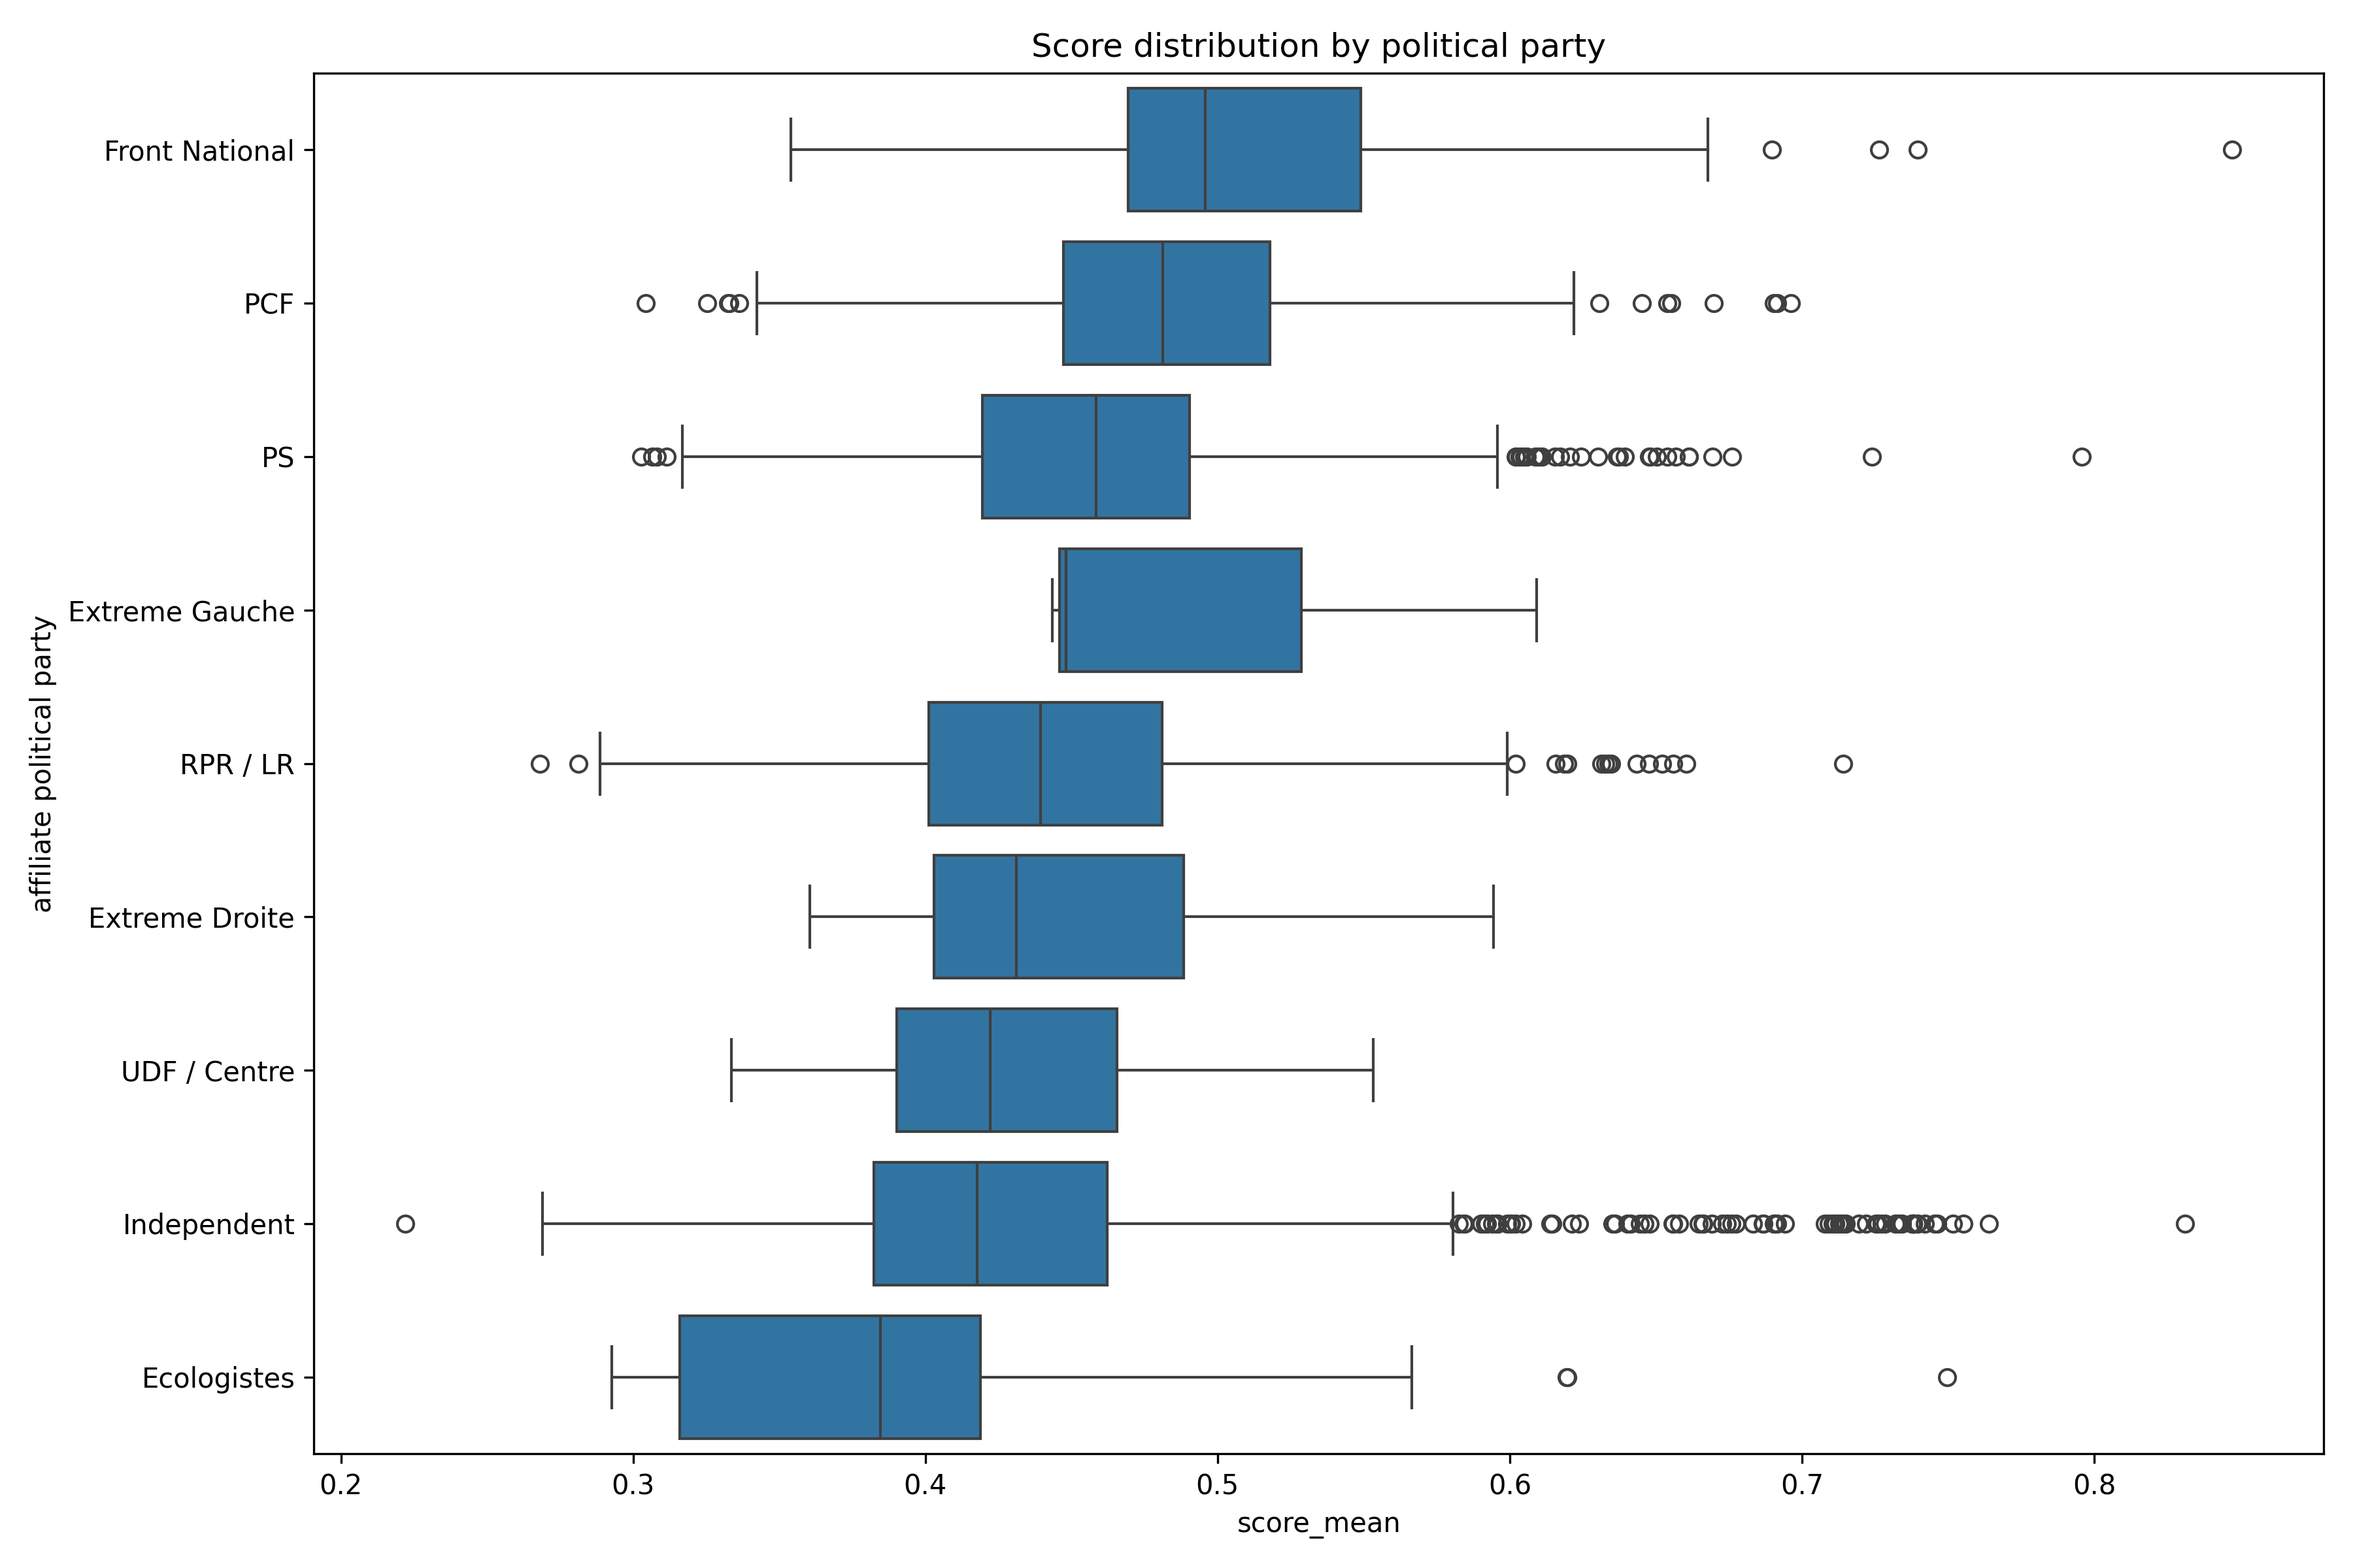
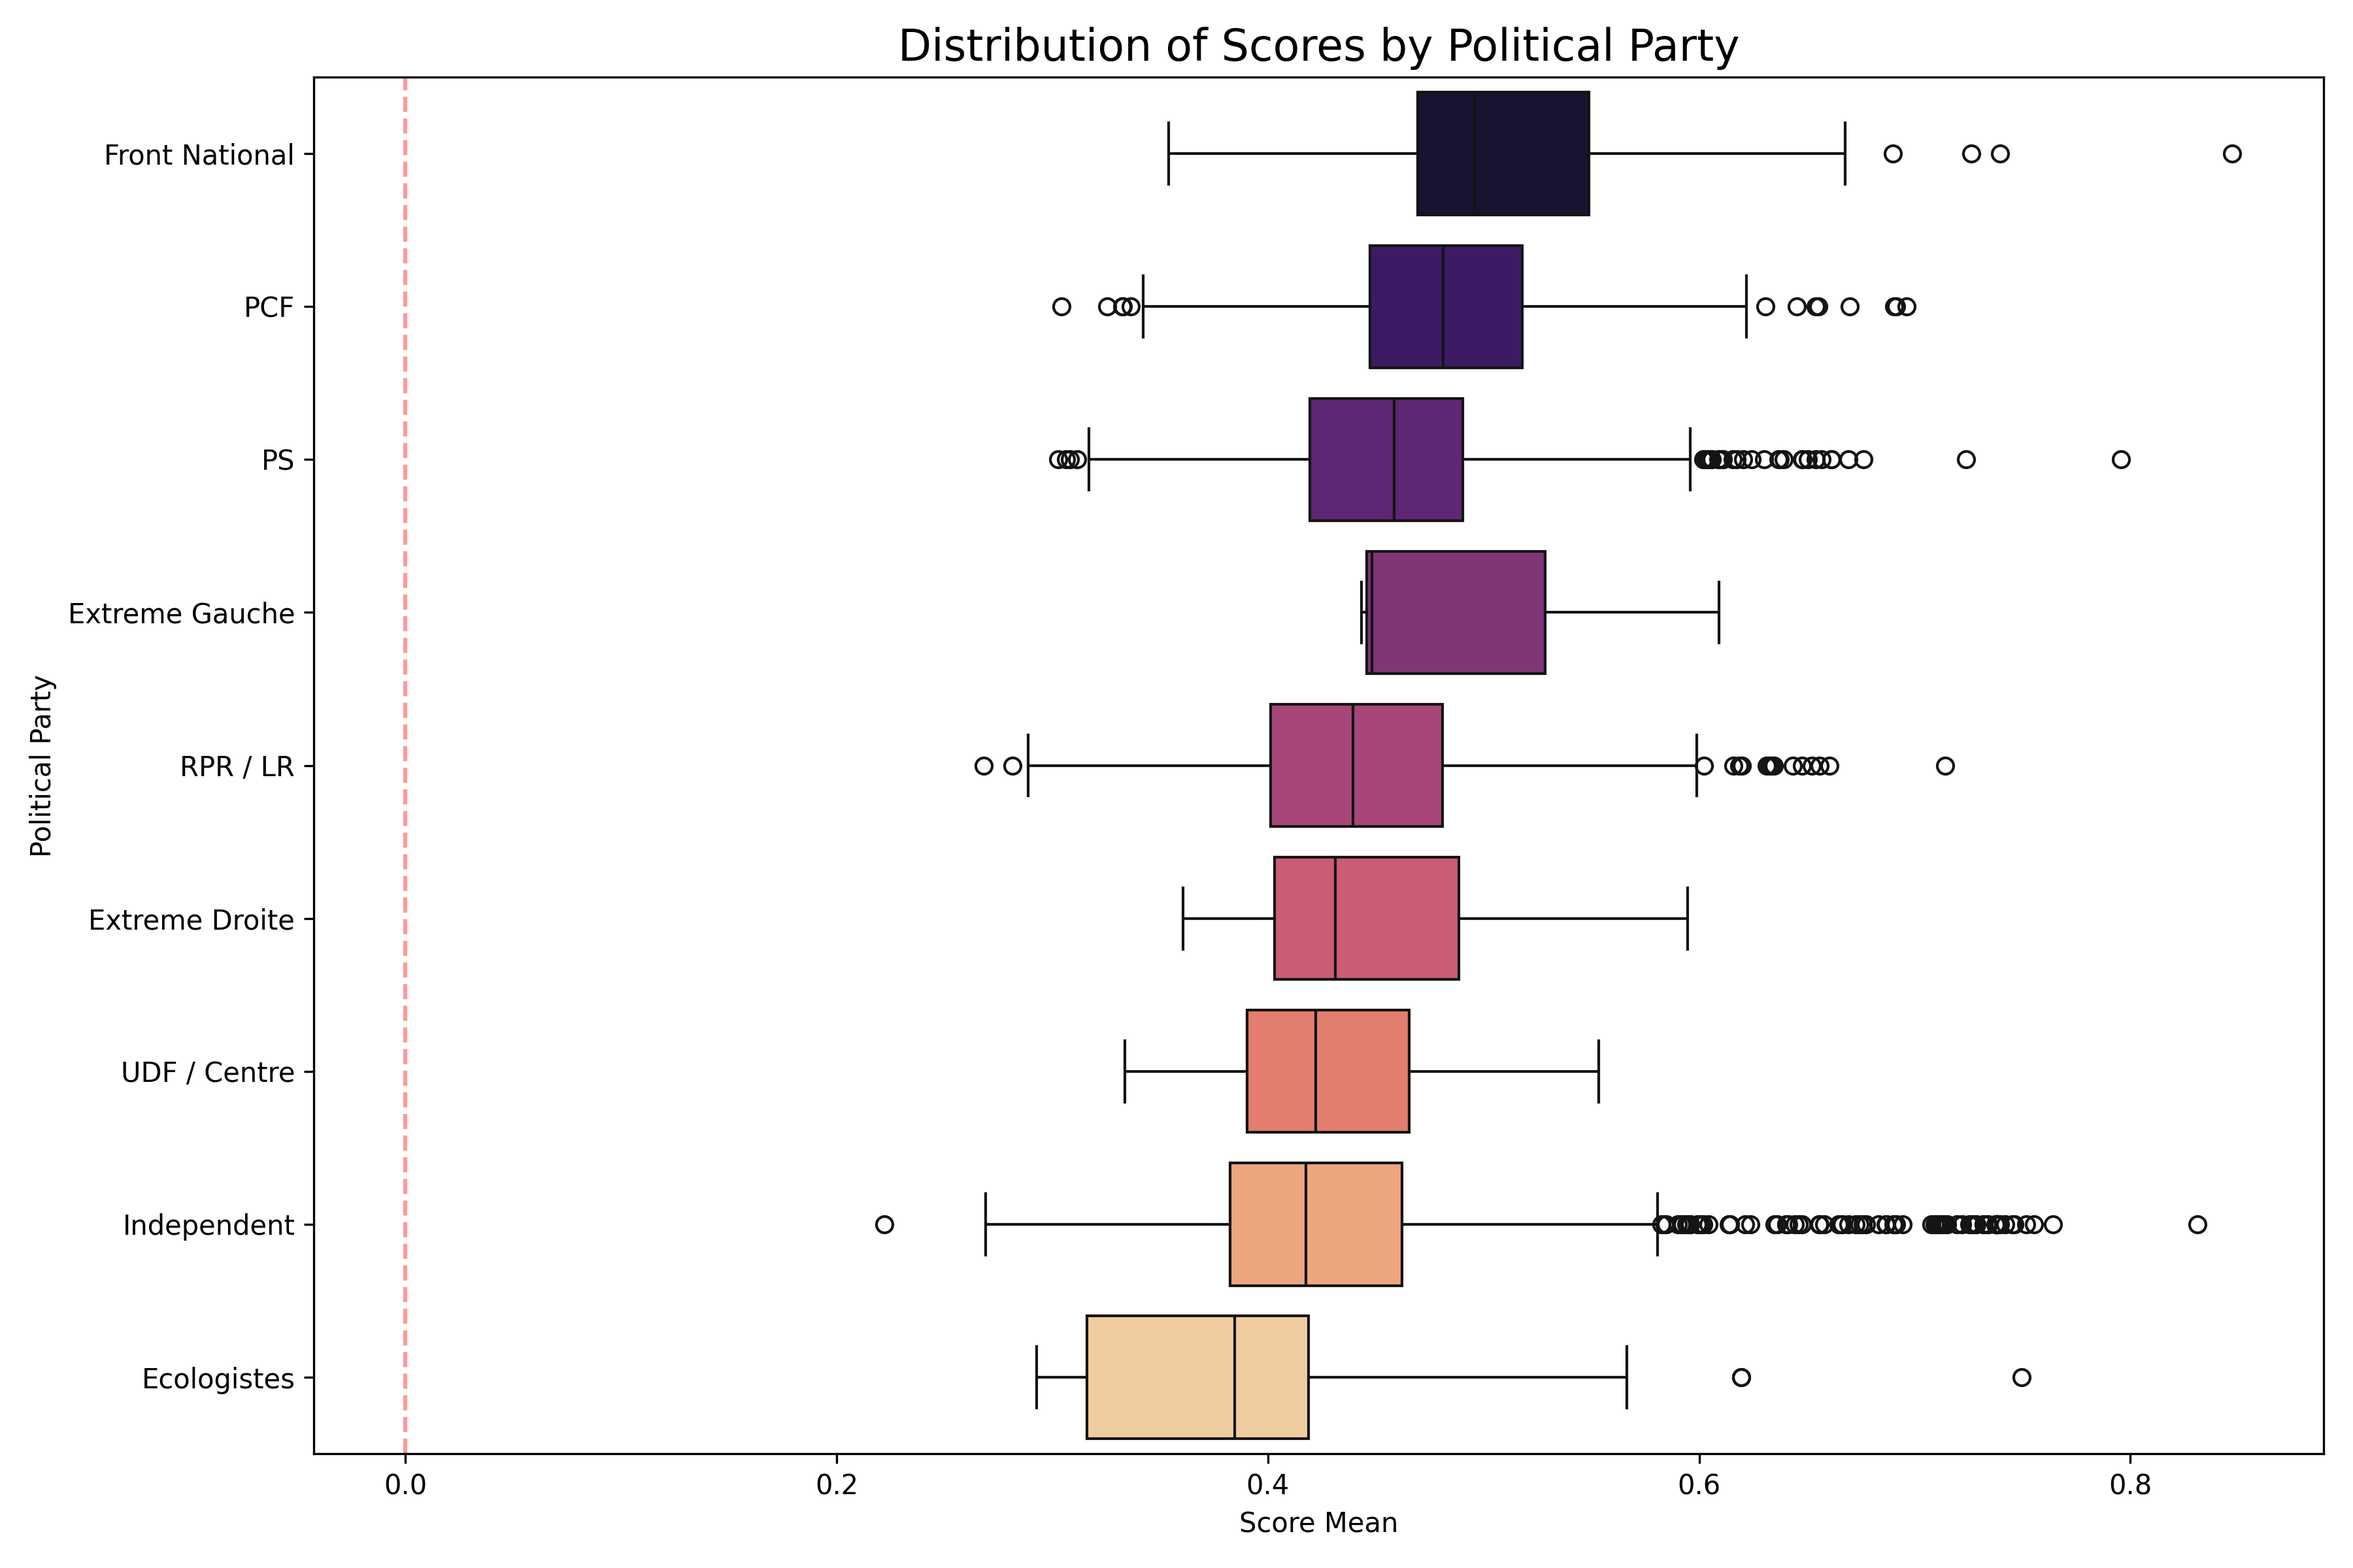
:lipstick: Improving graphics

diff --git a/src/InfoNCE/VisuNCE.py b/src/InfoNCE/VisuNCE.py
@@ -105,13 +105,20 @@ def compute_party_aggregates(df: pd.DataFrame) -> pd.DataFrame:
 
 
 # =========================================================
+# STYLE GLOBAL (LE TRUC QUE TU AS OUBLIÉ)
+# =========================================================
+
+def set_plot_style():
+    sns.set_theme(style="whitegrid")
+    plt.style.use("ggplot")
+    sns.set_palette("viridis")
+
+
+# =========================================================
 # PLOTTING
 # =========================================================
 
 def plot_time_evolution(df: pd.DataFrame, output_dir: str) -> None:
-    """
-    Plot score evolution over time by party.
-    """
     logger.info("Plotting time evolution")
 
     plt.figure(figsize=(14, 8))
@@ -122,12 +129,23 @@ def plot_time_evolution(df: pd.DataFrame, output_dir: str) -> None:
         y="score_mean",
         hue="affiliate political party",
         marker="o",
+        linewidth=2,
         errorbar=None
     )
 
-    plt.title("Evolution of InfoNCE score over time")
-    plt.xlabel("Year")
-    plt.ylabel("Score mean")
+    plt.title(
+        "Evolution of InfoNCE Score Over Time",
+        fontsize=16,
+        pad=15
+    )
+    plt.xlabel("Year", fontsize=12)
+    plt.ylabel("Score Mean", fontsize=12)
+
+    plt.legend(
+        title="Political Party",
+        bbox_to_anchor=(1.05, 1),
+        loc="upper left"
+    )
 
     plt.tight_layout()
 
@@ -135,13 +153,8 @@ def plot_time_evolution(df: pd.DataFrame, output_dir: str) -> None:
     plt.savefig(path, dpi=300)
     plt.close()
 
-    logger.info("Saved %s", path)
-
 
 def plot_party_distribution(df: pd.DataFrame, output_dir: str) -> None:
-    """
-    Plot score distribution by political party.
-    """
     logger.info("Plotting party distribution")
 
     plt.figure(figsize=(12, 8))
@@ -157,10 +170,18 @@ def plot_party_distribution(df: pd.DataFrame, output_dir: str) -> None:
         data=df,
         y="affiliate political party",
         x="score_mean",
-        order=order
+        order=order,
+        palette="magma"
     )
 
-    plt.title("Score distribution by political party")
+    plt.title(
+        "Distribution of Scores by Political Party",
+        fontsize=16
+    )
+    plt.xlabel("Score Mean")
+    plt.ylabel("Political Party")
+
+    plt.axvline(x=0, color="red", linestyle="--", alpha=0.4)
 
     plt.tight_layout()
 
@@ -168,13 +189,8 @@ def plot_party_distribution(df: pd.DataFrame, output_dir: str) -> None:
     plt.savefig(path, dpi=300)
     plt.close()
 
-    logger.info("Saved %s", path)
-
 
 def plot_gender(df: pd.DataFrame, output_dir: str) -> None:
-    """
-    Plot score by gender.
-    """
     logger.info("Plotting gender analysis")
 
     plt.figure(figsize=(10, 6))
@@ -183,10 +199,16 @@ def plot_gender(df: pd.DataFrame, output_dir: str) -> None:
         data=df,
         x="score_mean",
         y="titulaire-sexe",
+        palette="viridis",
         errorbar=None
     )
 
-    plt.title("Score by gender")
+    plt.title(
+        "Score by Gender",
+        fontsize=16
+    )
+    plt.xlabel("Score Mean")
+    plt.ylabel("Gender")
 
     plt.tight_layout()
 
@@ -194,13 +216,8 @@ def plot_gender(df: pd.DataFrame, output_dir: str) -> None:
     plt.savefig(path, dpi=300)
     plt.close()
 
-    logger.info("Saved %s", path)
-
 
 def plot_age(df: pd.DataFrame, output_dir: str) -> None:
-    """
-    Plot score by age group.
-    """
     logger.info("Plotting age analysis")
 
     plt.figure(figsize=(12, 6))
@@ -212,10 +229,16 @@ def plot_age(df: pd.DataFrame, output_dir: str) -> None:
         x="score_mean",
         y="age_group",
         order=labels,
+        palette="cubehelix",
         errorbar=None
     )
 
-    plt.title("Score by age group")
+    plt.title(
+        "Score by Age Group",
+        fontsize=16
+    )
+    plt.xlabel("Score Mean")
+    plt.ylabel("Age Group")
 
     plt.tight_layout()
 
@@ -223,29 +246,50 @@ def plot_age(df: pd.DataFrame, output_dir: str) -> None:
     plt.savefig(path, dpi=300)
     plt.close()
 
-    logger.info("Saved %s", path)
-
-
 def plot_top10(df: pd.DataFrame, output_dir: str) -> None:
     """
-    Plot top 10 highest scoring documents.
+    Plot top 10 unique individuals based on aggregated score.
+
+    Individuals are grouped by full name, and political party is displayed
+    under each name in the y-axis labels.
+
+    Args:
+        df: Input dataframe containing scores and identity columns
+        output_dir: Directory where the plot will be saved
     """
-    logger.info("Plotting top 10")
 
     df = df.copy()
-    df["name"] = df["titulaire-prenom"] + " " + df["titulaire-nom"]
 
-    top10 = df.nlargest(10, "score_mean")
+    df["name"] = (
+        df["titulaire-prenom"].fillna("") + " " + df["titulaire-nom"].fillna("")
+    ).str.strip()
+
+    df["party"] = df["affiliate political party"].fillna("Unknown")
+
+    df_agg = (
+        df.groupby(["name", "party"], as_index=False)
+        .agg({"score_mean": "mean"})
+    )
+
+    df_agg["label"] = df_agg["name"] + "\n(" + df_agg["party"] + ")"
+
+    top10 = (
+        df_agg.nlargest(10, "score_mean")
+        .sort_values("score_mean", ascending=False)
+    )
 
     plt.figure(figsize=(12, 6))
 
     sns.barplot(
         data=top10,
         x="score_mean",
-        y="name"
+        y="label",
+        palette="Reds_r"
     )
 
-    plt.title("Top 10 highest scores")
+    plt.title("Top 10 Individuals (Average InfoNCE Score)", fontsize=16)
+    plt.xlabel("Score Mean")
+    plt.ylabel("Candidate (Party)")
 
     plt.tight_layout()
 
@@ -253,13 +297,7 @@ def plot_top10(df: pd.DataFrame, output_dir: str) -> None:
     plt.savefig(path, dpi=300)
     plt.close()
 
-    logger.info("Saved %s", path)
-
-
 def plot_correlation(df: pd.DataFrame, output_dir: str) -> None:
-    """
-    Plot correlation matrix between score metrics.
-    """
     logger.info("Plotting correlation matrix")
 
     corr = df[[
@@ -271,16 +309,21 @@ def plot_correlation(df: pd.DataFrame, output_dir: str) -> None:
 
     plt.figure(figsize=(8, 6))
 
-    sns.heatmap(corr, annot=True, cmap="coolwarm")
+    sns.heatmap(
+        corr,
+        annot=True,
+        cmap="coolwarm",
+        fmt=".2f",
+        square=True
+    )
 
-    plt.title("Correlation between score metrics")
+    plt.title("Correlation Between Score Metrics", fontsize=14)
+
+    plt.tight_layout()
 
     path = os.path.join(output_dir, "correlation.png")
     plt.savefig(path, dpi=300)
     plt.close()
-
-    logger.info("Saved %s", path)
-
 
 # =========================================================
 # MAIN
